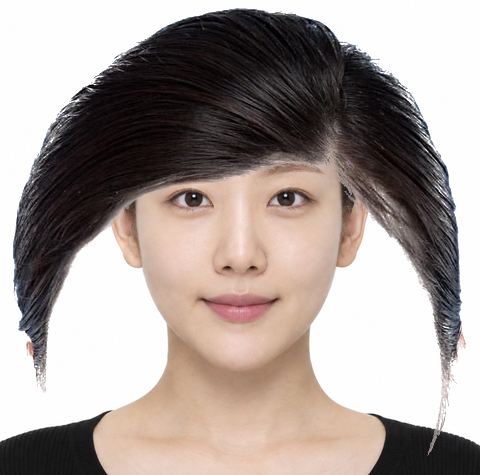
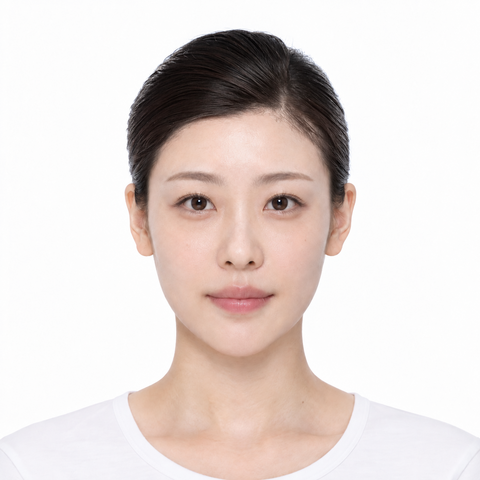
Add files via upload

diff --git a/app/page.tsx b/app/page.tsx
@@ -108,9 +108,9 @@ const hairstyleOptions = [
     return {
       id: `hair-${number}`,
       label: `แบบ ${number}`,
-      // Use the exact model preview as the AI reference too. This keeps the
-      // hairstyle users see in the picker identical to the style AI receives.
-      image: `/hairstyle-previews/hair-${number}.png`,
+      // The generated preview and the live edit are both derived from this
+      // exact numbered hairstyle source.
+      image: `/hairstyles/hair-${number}.png`,
       preview: `/hairstyle-previews/hair-${number}.png`,
     };
   }),
